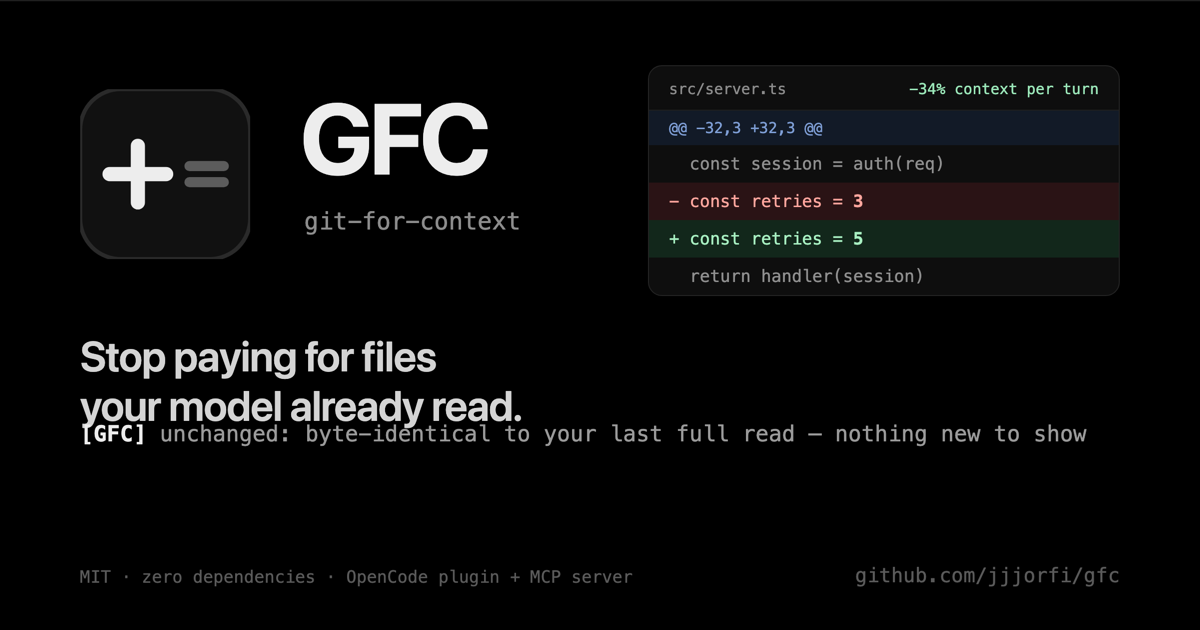
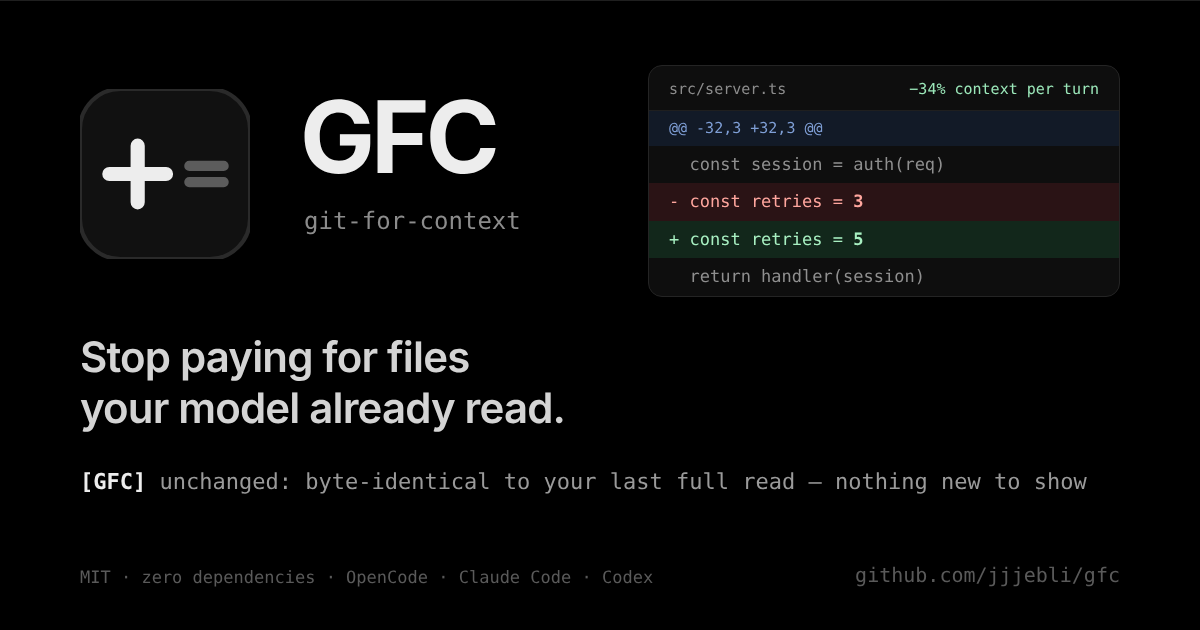
rename GitHub account jjjebli
- every link, install command, badge, remote and package.json repository
- docs/og.html + docs/og.png regenerated: new handle, supported tools line
  now lists OpenCode, Claude Code and Codex, and the stub line no longer
  overlaps the tagline

Claude-Session: https://claude.ai/code/session_01FTN9pV4qSEGC4wCBJYqvgm

diff --git a/docs/og.html b/docs/og.html
@@ -14,7 +14,7 @@
   .wordsub{position:absolute;left:304px;top:206px;font-size:24px;color:#8C8C8C}
   .tagline{position:absolute;left:80px;top:330px;font-weight:600;font-size:42px;
            color:#D4D4D4;letter-spacing:-.02em}
-  .stub{position:absolute;left:80px;top:420px;font-size:22px;color:#9A9A9A;white-space:nowrap}
+  .stub{position:absolute;left:80px;top:468px;font-size:22px;color:#9A9A9A;white-space:nowrap}
   .stub b{color:#EDEDED;font-weight:700}
   .diffcard{position:absolute;right:80px;top:64px;width:470px;background:#0E0E0E;
             border:1px solid #242424;border-radius:14px;overflow:hidden}
@@ -43,7 +43,7 @@
   <div class="wordsub mono">git-for-context</div>
   <div class="tagline">Stop paying for files<br>your model already read.</div>
   <div class="stub mono"><b>[GFC]</b> unchanged: byte-identical to your last full read — nothing new to show</div>
-  <div class="facts mono">MIT · zero dependencies · OpenCode plugin + MCP server</div>
+  <div class="facts mono">MIT · zero dependencies · OpenCode · Claude Code · Codex</div>
   <div class="repo mono">github.com/jjjebli/gfc</div>
   <div class="diffcard mono">
     <div class="diffhead"><span class="fn">src/server.ts</span><span class="pct">−34% context per turn</span></div>
